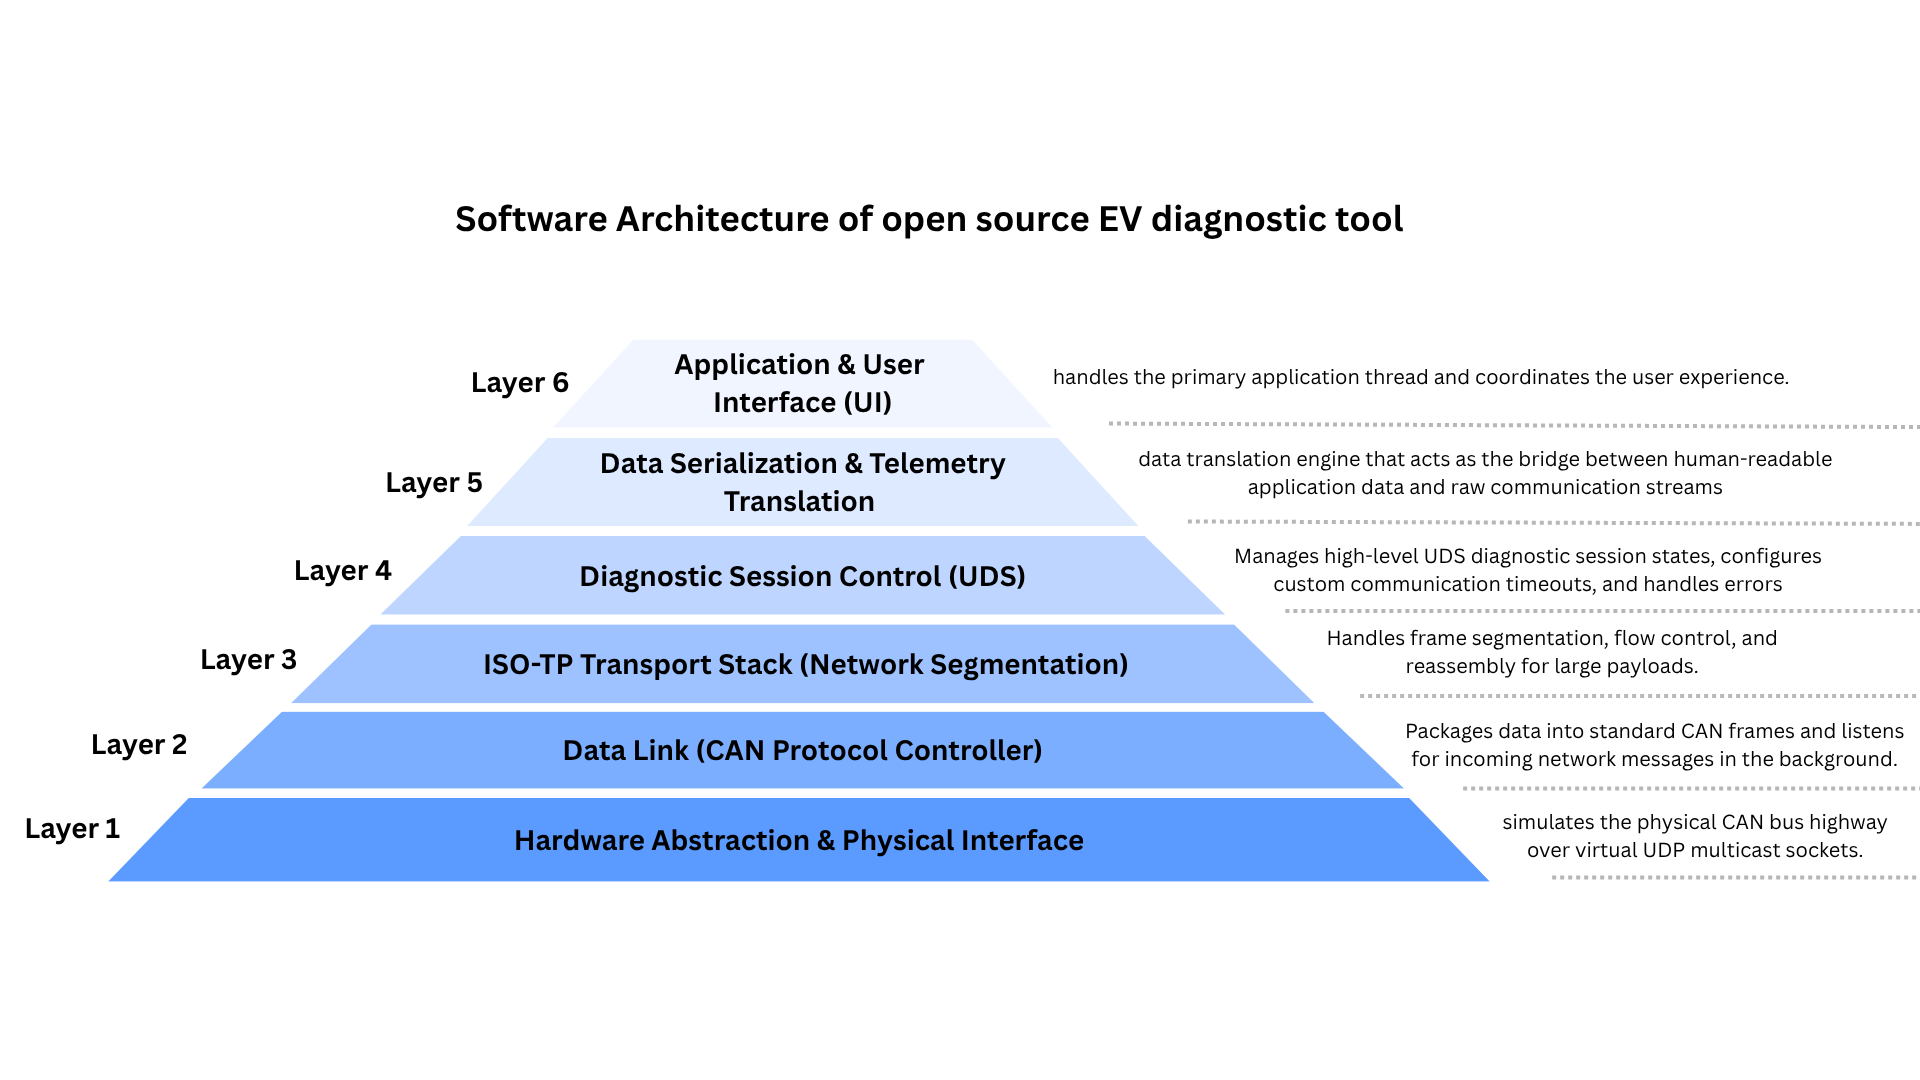
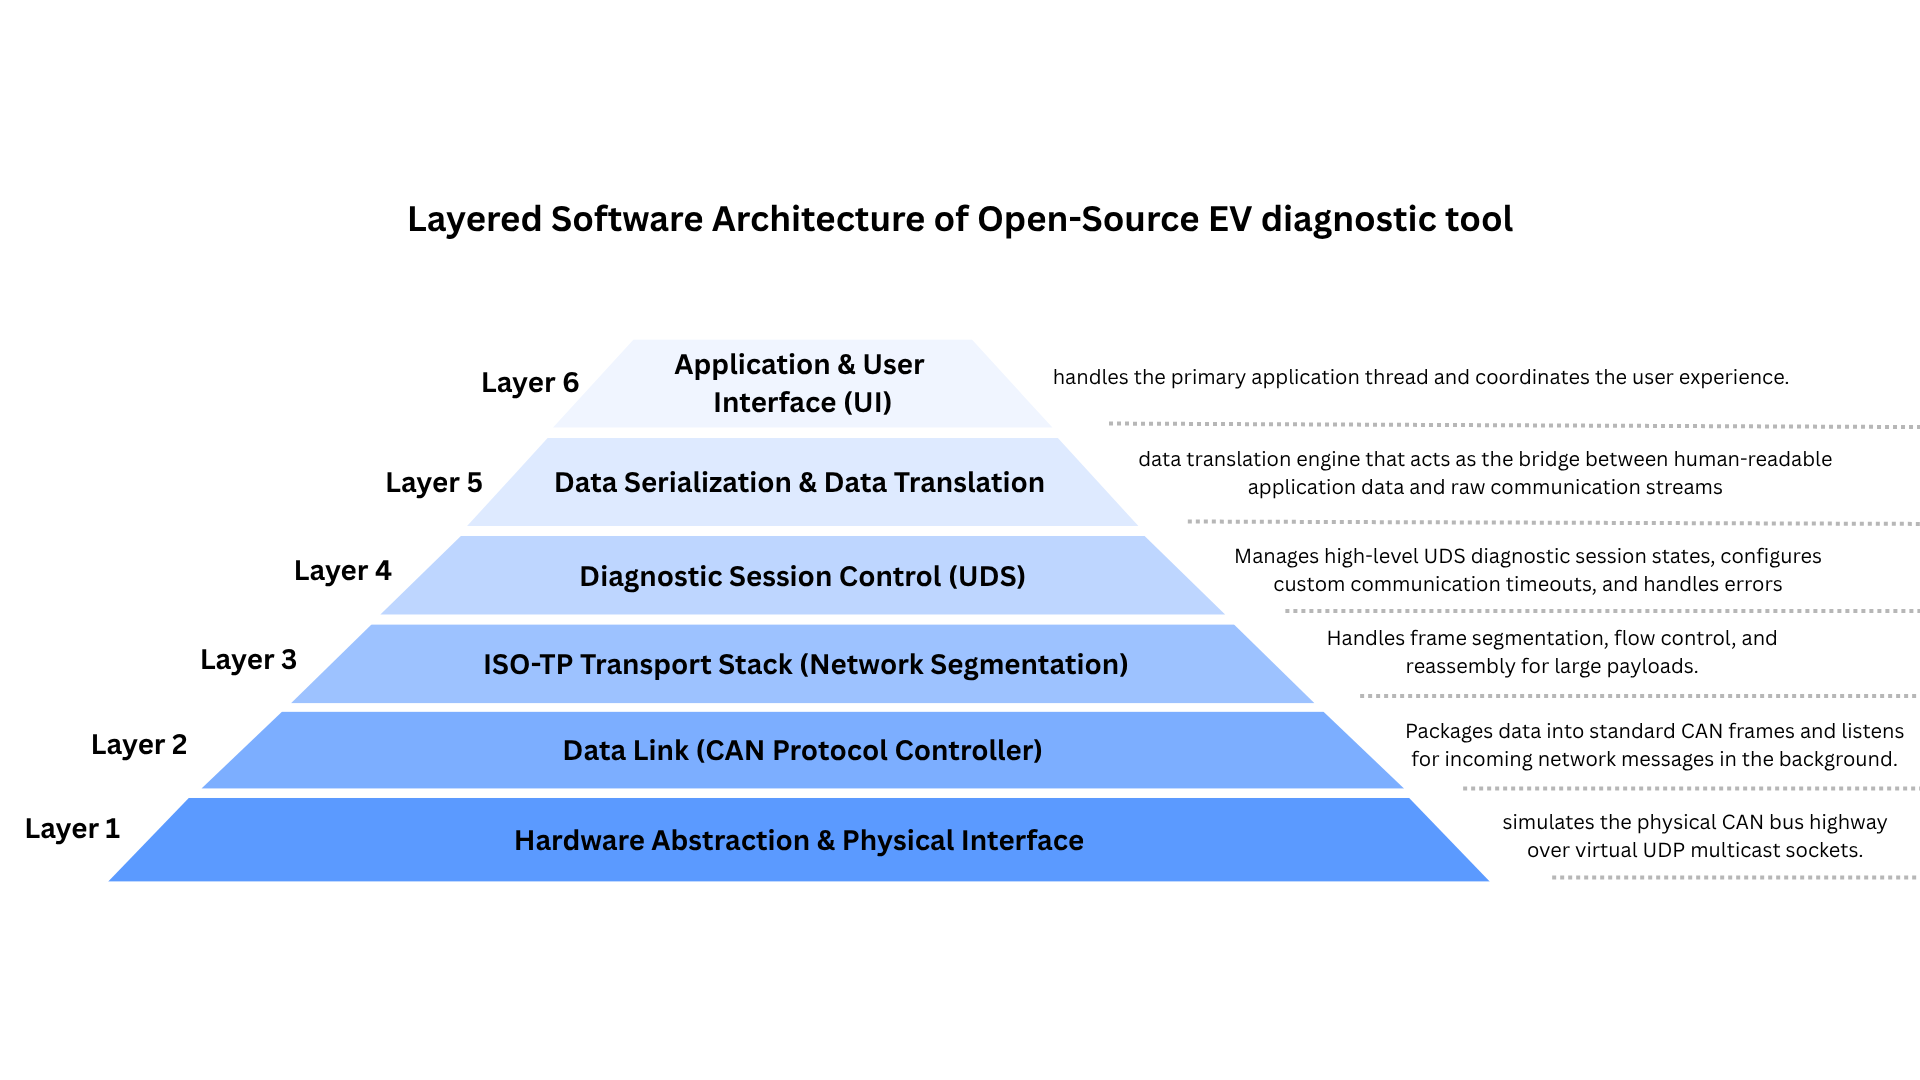
updated

Changed region(s): [[0.2188, 0.1833, 0.7812, 0.2139], [0.2812, 0.3972, 0.5625, 0.4889], [0.25, 0.3361, 0.3125, 0.3667]]

diff --git a/ECU_Simulations/ecu.py b/ECU_Simulations/ecu.py
@@ -6,8 +6,8 @@ import os
 import random
 import threading
 
-ECU_RX_ID = 0x7E0  # ECU listens here (Tester's Tx)
-ECU_TX_ID = 0x7E8  # ECU responds here (Tester's Rx)
+ECU_RX_ID = 0x7E1  # ECU listens here (Tester's Tx)
+ECU_TX_ID = 0x7E9  # ECU responds here (Tester's Rx)
 tester_present_seen = False
 
 # Global state variables for the response switch
